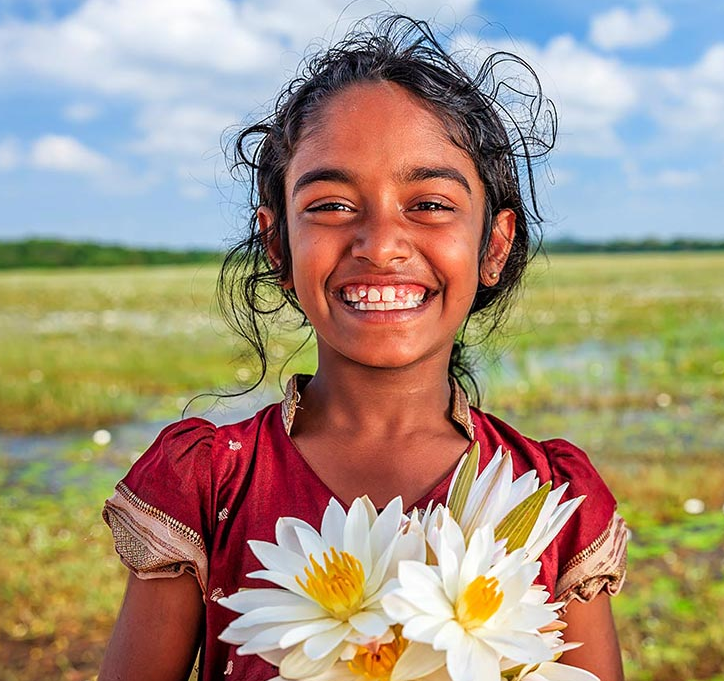
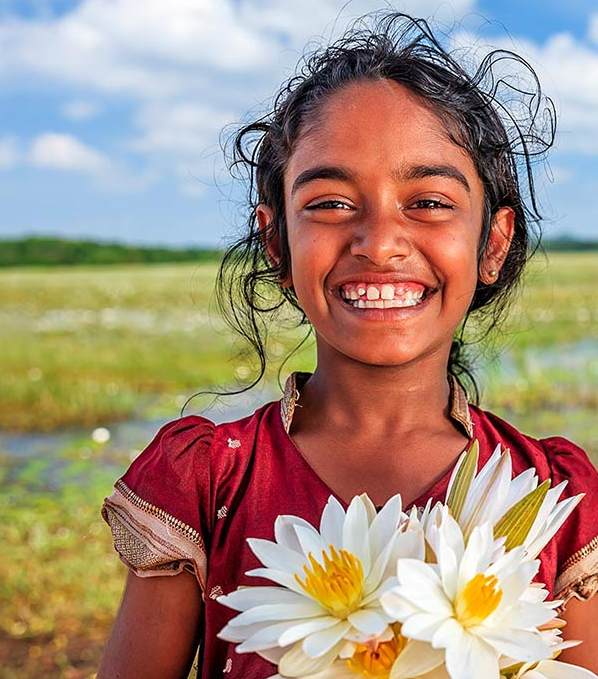
get started DONE

diff --git a/lib/screens/get_started.dart b/lib/screens/get_started.dart
@@ -1,4 +1,5 @@
 import 'package:flutter/material.dart';
+import 'package:google_fonts/google_fonts.dart';
 
 class GetStarted extends StatelessWidget {
   const GetStarted({super.key});
@@ -9,7 +10,63 @@ class GetStarted extends StatelessWidget {
       body: Container(
         width: double.infinity,
         decoration: BoxDecoration(
-            image: DecorationImage(image: AssetImage('assets/images/bg.png'))),
+            image: DecorationImage(
+                image: AssetImage('assets/images/bg.png'), fit: BoxFit.cover)),
+        child: Container(
+          decoration: BoxDecoration(
+              gradient: LinearGradient(begin: Alignment.bottomCenter, colors: [
+            Colors.black.withOpacity(.7),
+            Colors.black.withOpacity(.4)
+          ])),
+          child: Padding(
+            padding: EdgeInsets.only(left: 20),
+            child: Column(
+              crossAxisAlignment: CrossAxisAlignment.start,
+              mainAxisAlignment: MainAxisAlignment.center,
+              children: [
+                SizedBox(
+                  height: 230,
+                ),
+                Text('"Everyone\nCan be Great\nbecause\neveryone can Serve"',
+                    style: GoogleFonts.inter(
+                        fontSize: 30,
+                        color: Colors.white,
+                        fontWeight: FontWeight.bold)),
+                SizedBox(
+                  height: 25,
+                ),
+                Text(
+                  "- Martin Luther King -",
+                  style: GoogleFonts.inter(color: Colors.white, fontSize: 18),
+                ),
+                SizedBox(
+                  height: 200,
+                ),
+                Padding(
+                  padding: const EdgeInsets.only(right: 20),
+                  child: Container(
+                    height: 50,
+                    decoration: BoxDecoration(
+                        color: Color.fromARGB(255, 105, 0, 98),
+                        borderRadius: BorderRadius.circular(50)),
+                    child: Center(
+                      child: InkWell(
+                        onTap: () {},
+                        child: Text(
+                          "Get Started",
+                          style: GoogleFonts.inter(
+                              fontSize: 20,
+                              color: Colors.white,
+                              fontWeight: FontWeight.w500),
+                        ),
+                      ),
+                    ),
+                  ),
+                )
+              ],
+            ),
+          ),
+        ),
       ),
     );
   }

diff --git a/macos/Flutter/GeneratedPluginRegistrant.swift b/macos/Flutter/GeneratedPluginRegistrant.swift
@@ -5,6 +5,8 @@
 import FlutterMacOS
 import Foundation
 
+import path_provider_foundation
 
 func RegisterGeneratedPlugins(registry: FlutterPluginRegistry) {
+  PathProviderPlugin.register(with: registry.registrar(forPlugin: "PathProviderPlugin"))
 }
